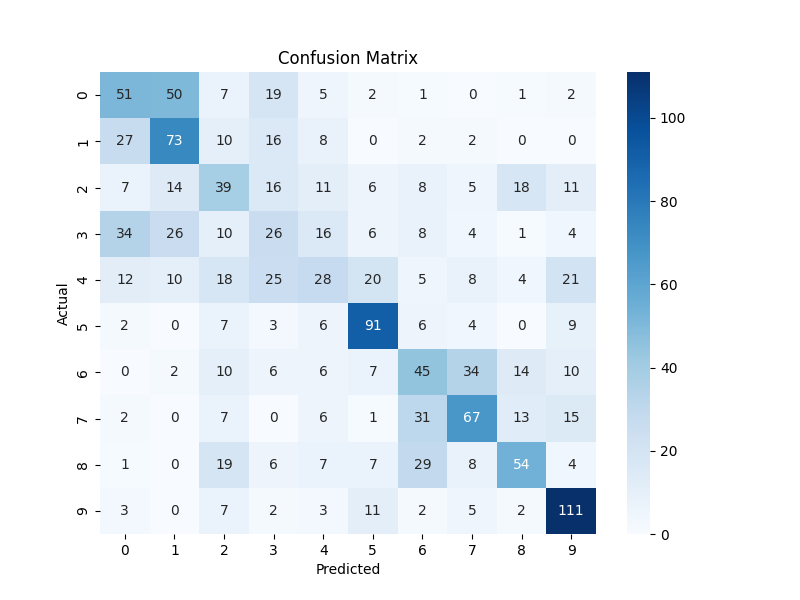
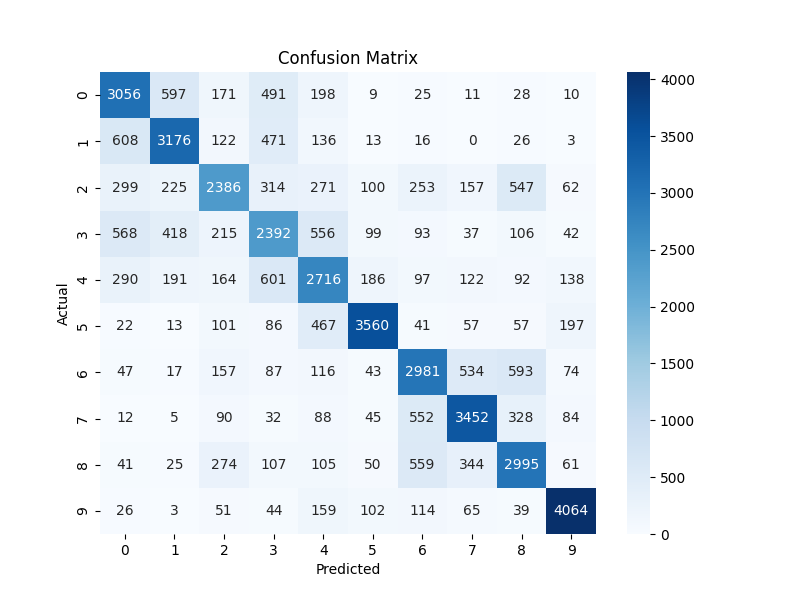
100% dataset

diff --git a/models/lstm.py b/models/lstm.py
@@ -7,11 +7,9 @@ from sklearn.model_selection import train_test_split
 from sklearn.preprocessing import LabelEncoder, StandardScaler
 from sklearn.metrics import classification_report, confusion_matrix
 
-# Cargar datos 100% del dataset
-# df = pd.read_csv("data/processed/features_labeled.csv")  # Usar el CSV ya etiquetado
+# Cargar los datos
+df = pd.read_csv("C:\\Users\\Leonardo\\Documents\\GitHub\\DCASE\\data\\processed\\features_labeled.csv")
 
-# Cargar solo el 3% de los datos
-df = pd.read_csv("data/processed/features_labeled.csv").sample(frac=0.03, random_state=42)
 
 X = df.drop(columns=["label"]).values  # Características
 y = df["label"].values  # Etiquetas
@@ -42,34 +40,34 @@ model = tf.keras.models.Sequential([
 model.compile(optimizer='adam', loss='sparse_categorical_crossentropy', metrics=['accuracy'])
 
 # Definir el archivo de logs
-log_file = "results/training_log.txt"
-f = open(log_file, "w")  # Abrir antes del entrenamiento
-f.write("Epoch,Loss,Accuracy\n")
+log_file = "C:\\Users\\Leonardo\\Documents\\GitHub\\DCASE\\results\\training_log.txt"
+with open(log_file, "w") as f:
+    f.write("Epoch,Loss,Accuracy,Val_Loss,Val_Accuracy\n")
 
 # Callback para guardar el historial de entrenamiento
 class CustomCallback(tf.keras.callbacks.Callback):
     def on_epoch_end(self, epoch, logs=None):
         logs = logs or {}
-        f.write(f"{epoch + 1},{logs['loss']:.4f},{logs['accuracy']:.4f}\n")
-        f.flush()  # Asegurar que se escriban los datos en el archivo
+        with open(log_file, "a") as f:
+            f.write(f"{epoch + 1},{logs['loss']:.4f},{logs['accuracy']:.4f},{logs['val_loss']:.4f},{logs['val_accuracy']:.4f}\n")
+
+# Callback de Early Stopping
+early_stopping = tf.keras.callbacks.EarlyStopping(monitor='val_loss', patience=5, restore_best_weights=True)
 
 # Entrenar el modelo
-history = model.fit(X_train, y_train, epochs=50, batch_size=32, validation_data=(X_test, y_test),
-                    callbacks=[CustomCallback()])
-
-f.close()  # Cerrar el archivo después del entrenamiento
+history = model.fit(X_train, y_train, epochs=100, batch_size=32, validation_data=(X_test, y_test),
+                    callbacks=[CustomCallback(), early_stopping])
 
 # Evaluar el modelo
 y_pred = np.argmax(model.predict(X_test), axis=1)
 report = classification_report(y_test, y_pred, target_names=encoder.classes_, output_dict=True)
 
 # Guardar métricas finales
-metrics_file = "results/final_metrics.txt"
+metrics_file = "C:\\Users\\Leonardo\\Documents\\GitHub\\DCASE\\results\\final_metrics.txt"
 with open(metrics_file, "w") as f:
     f.write("Precision, Recall, F1-Score\n")
     for label in encoder.classes_:
-        f.write(
-            f"{label},{report[label]['precision']:.4f},{report[label]['recall']:.4f},{report[label]['f1-score']:.4f}\n")
+        f.write(f"{label},{report[label]['precision']:.4f},{report[label]['recall']:.4f},{report[label]['f1-score']:.4f}\n")
 
 # Matriz de confusión
 conf_matrix = confusion_matrix(y_test, y_pred)
@@ -78,10 +76,7 @@ sns.heatmap(conf_matrix, annot=True, fmt="d", cmap="Blues", xticklabels=encoder.
 plt.xlabel("Predicted")
 plt.ylabel("Actual")
 plt.title("Confusion Matrix")
-plt.savefig("results/confusion_matrix.png")
+plt.savefig("C:\\Users\\Leonardo\\Documents\\GitHub\\DCASE\\results\\confusion_matrix.png")
 plt.close()
-
-# Guardar el modelo
-# model.save("results/lstm_model.h5")
 
 print("Entrenamiento finalizado. Resultados guardados en la carpeta 'results'.")
